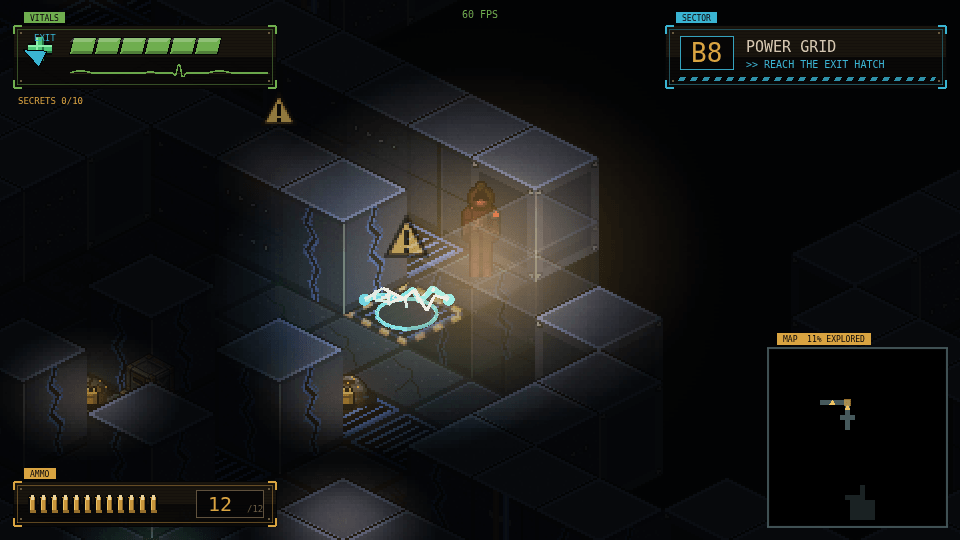
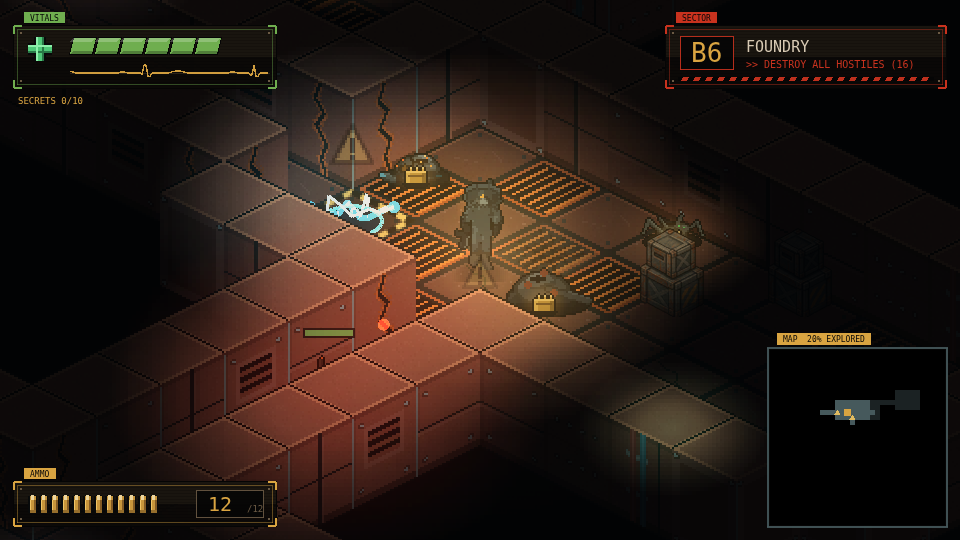
docs(release): 📝 0.1.1 screenshots, GIFs, devlog and changelog rule
* Retake six screenshots and three GIFs with the new Exile sprite and HUD.
* Add the new main character to the 0.1.1 devlog and changelog.
* Add a Keep the Changelog rule to AGENTS.md.

diff --git a/docs/DEVLOG_0.1.1.md b/docs/DEVLOG_0.1.1.md
@@ -2,10 +2,11 @@
 
 > *"If I am the monster, ask who wrote me."*
 
-0.1.1 is a small update built from the first round of feedback. The floors are busier, the exit is easier to find, and WARDEN finally has something to say.
+0.1.1 is a small update built from the first round of feedback. The Exile has a new look, the floors are busier, the exit is easier to find, and WARDEN finally has something to say.
 
 ## What is new
 
+- **A new Exile.** The main character is redrawn. The sprite is larger, and walking and aiming read more clearly in the dark.
 - **WARDEN talks to you.** Between fights it speaks, in its own voice, about the people who sent you. Twelve lines, at most two per floor, never the same one twice in a run.
 - **A proper exit beacon.** The small arrow is gone. A larger marker with a distance readout points at the hatch and sits above it when it is on screen.
 - **Busier floors.** Every floor has more drones, spiders and tanks, and more ammo, stims, crates and barrels to deal with them.

diff --git a/AGENTS.md b/AGENTS.md
@@ -151,6 +151,7 @@ export function isoToCartesian(isoX: number, isoY: number, tileWidth: number, ti
 - **Keep it Readable** - Write code that another agent can understand in one pass.
 - **Test in Mind** - Even without full tests, reason about edge cases (negative coords, out of bounds, null refs).
 - **Use the Harness** - Leverage the project agents/skills/commands defined in `.opencode/` to stay consistent.
+- **Keep the Changelog** - Every player-visible change gets one line in `CHANGELOG.md` under the current version, in the same change. Bump `package.json` and add a new section (plus a `docs/DEVLOG_<version>.md`) when a release is cut.
 
 ---
 

diff --git a/CHANGELOG.md b/CHANGELOG.md
@@ -1,6 +1,7 @@
 # Changelog
 
 ## 0.1.1
+- New Exile: the main character is redrawn from a 3D model, with larger and smoother walk and aim frames.
 - WARDEN now talks to you between fights: twelve voiced lines, at most two per floor.
 - A larger exit beacon with a distance readout replaces the small exit arrow.
 - Loading bar on startup.
